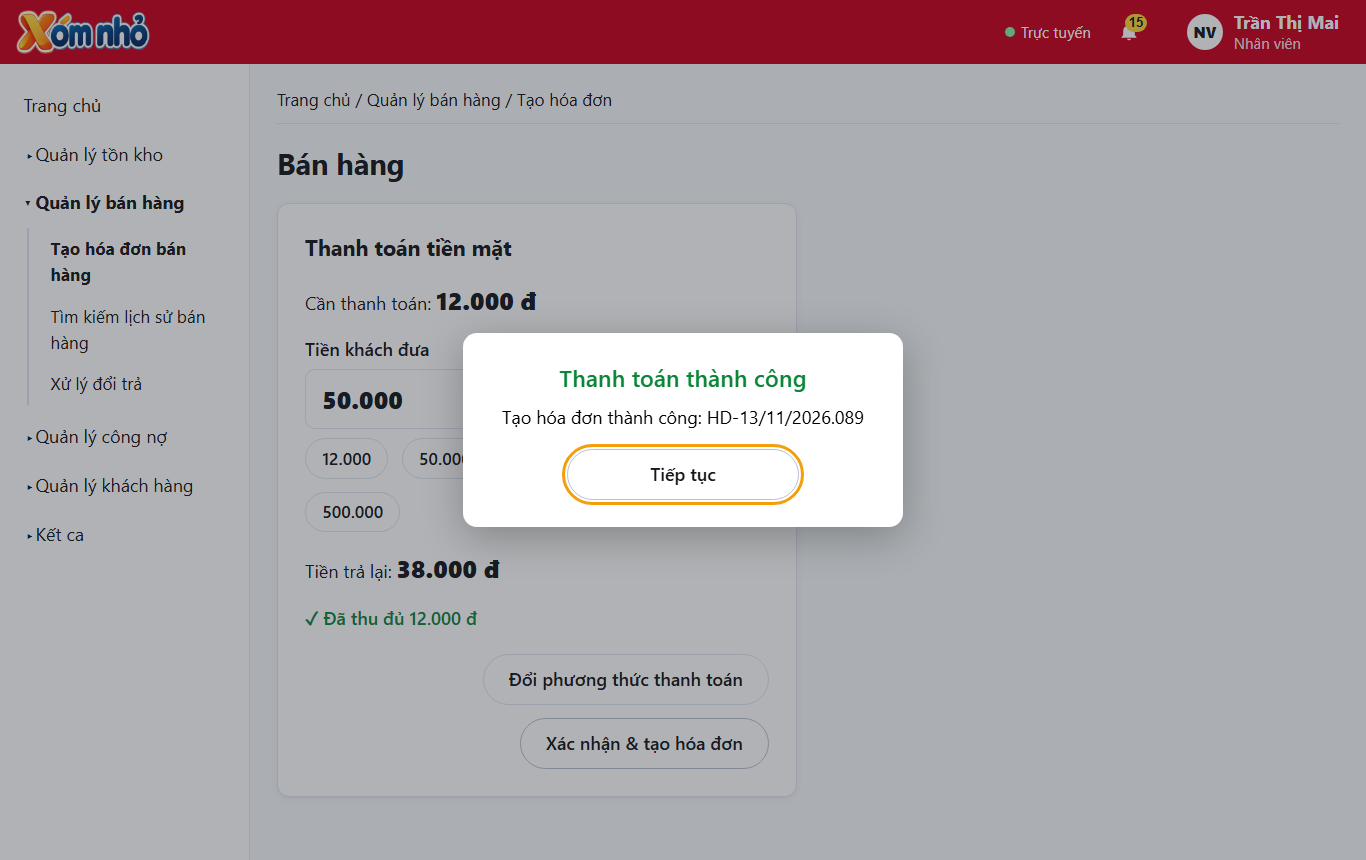
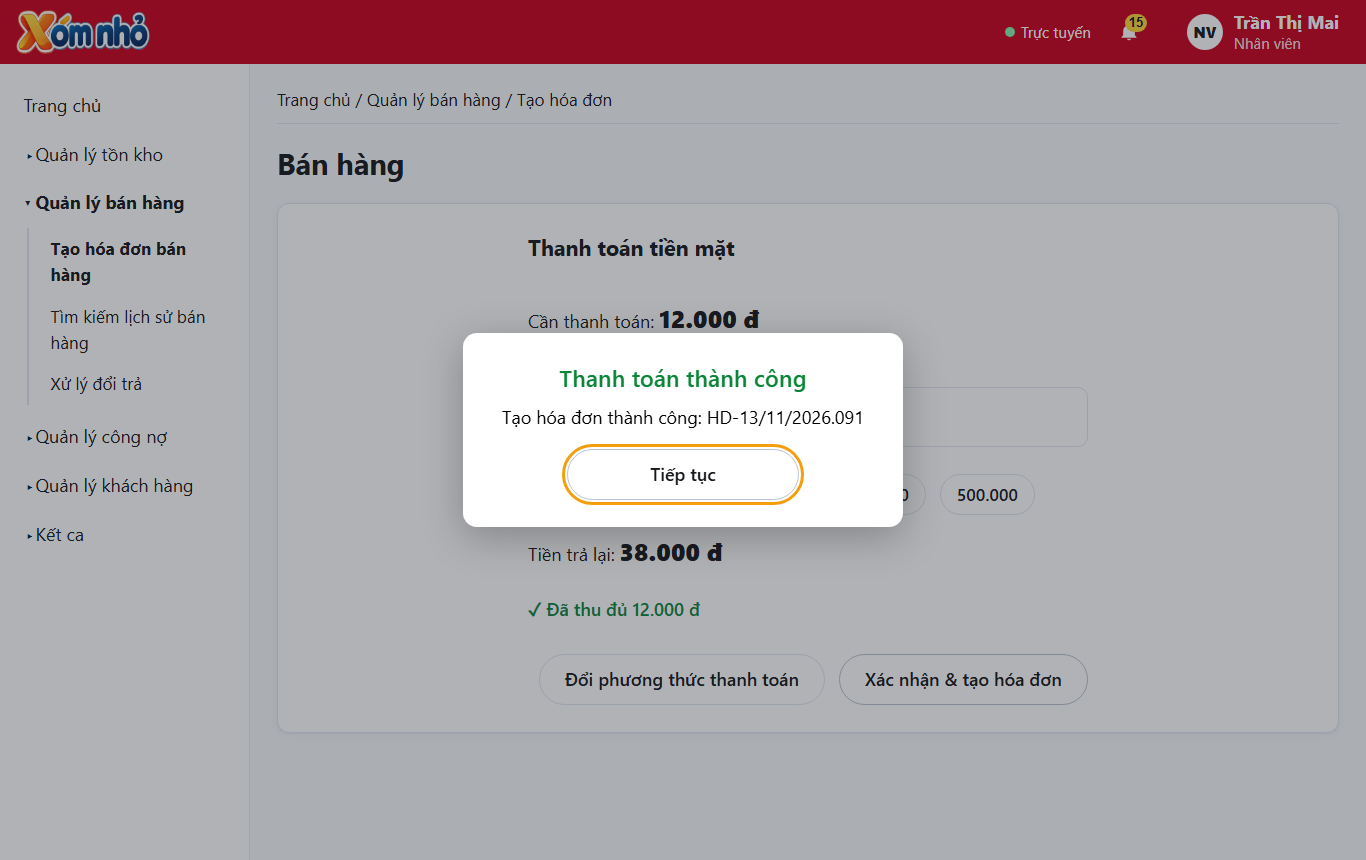
Giao diện: thống nhất độ rộng khung trên mọi màn hình
- Mọi khung nội dung (.the, the--vua, the--rong, khung bán hàng) cùng độ rộng: kéo hết vùng
  nội dung, tối đa 1400px (biến --rong-noi-dung). Trước đây có 4 độ rộng 520/820/860/1200px
  nên nhiều màn hình lệch trái, trống bên phải.
- Khung nội dung ít (the--hep: đổi mật khẩu, kết ca, thanh toán tiền mặt, form khách hàng…):
  khung vẫn rộng như mọi màn hình, nội dung gom thành một cột 560px căn giữa.
- Thêm khách quen: khung "Quy tắc kiểm tra" thẳng hàng với khung form.
- Chạy lại kiểm thử giao diện: 14/14 đạt; cập nhật docs/KiemThu_XomNho.xlsx.

diff --git a/frontend/src/index.css b/frontend/src/index.css
@@ -669,8 +669,13 @@ a {
 
 /* ------------------------------------------------------------------ Thẻ nội dung */
 /* Thẻ theo mẫu: nền trắng, viền mảnh, bo góc, gần như không đổ bóng. */
+/* Mọi khung nội dung cùng một độ rộng (kéo hết vùng nội dung, tối đa --rong-noi-dung) để các màn hình đều nhau. */
+:root {
+  --rong-noi-dung: 1400px;
+}
+
 .the {
-  max-width: 820px;
+  max-width: var(--rong-noi-dung);
   padding: 1.5rem;
   border: 1px solid var(--mau-vien);
   border-radius: 12px;
@@ -678,8 +683,17 @@ a {
   box-shadow: var(--bong);
 }
 
-.the--hep {
-  max-width: 520px;
+/* Khung nội dung ít (đổi mật khẩu, kết ca, tiền mặt…): khung vẫn rộng như mọi màn hình,
+   nội dung gom thành một cột vừa đọc và căn giữa. */
+.the.the--hep {
+  display: grid;
+  grid-template-columns: minmax(0, 560px);
+  justify-content: center;
+}
+
+/* Nút đứng riêng trong khung hẹp giữ độ rộng tự nhiên, không kéo hết cột. */
+.the.the--hep > .nut {
+  justify-self: start;
 }
 
 .thong-tin {
@@ -800,12 +814,10 @@ a {
   margin-top: 1.25rem;
 }
 
-.the--rong {
-  max-width: 1200px;
-}
-
+/* the--rong / the--vua giữ tên lớp cho các màn hình cũ; độ rộng nay thống nhất theo .the. */
+.the--rong,
 .the--vua {
-  max-width: 860px;
+  max-width: var(--rong-noi-dung);
 }
 
 .thanh-cong-cu {
@@ -1087,7 +1099,7 @@ select.truong__o {
   grid-template-columns: minmax(0, 1fr) clamp(320px, 38%, 380px);
   align-items: start;
   gap: 1.25rem;
-  max-width: 1300px;
+  max-width: var(--rong-noi-dung);
 }
 
 .pos .the {
@@ -1095,7 +1107,8 @@ select.truong__o {
 }
 
 /* Hai khung nằm cạnh nhau trong lưới: bỏ lề trên của quy tắc .the + .the để thẳng hàng. */
-.pos > .the + .the {
+.pos > .the + .the,
+.luoi-form > .the + .the {
   margin-top: 0;
 }
 
